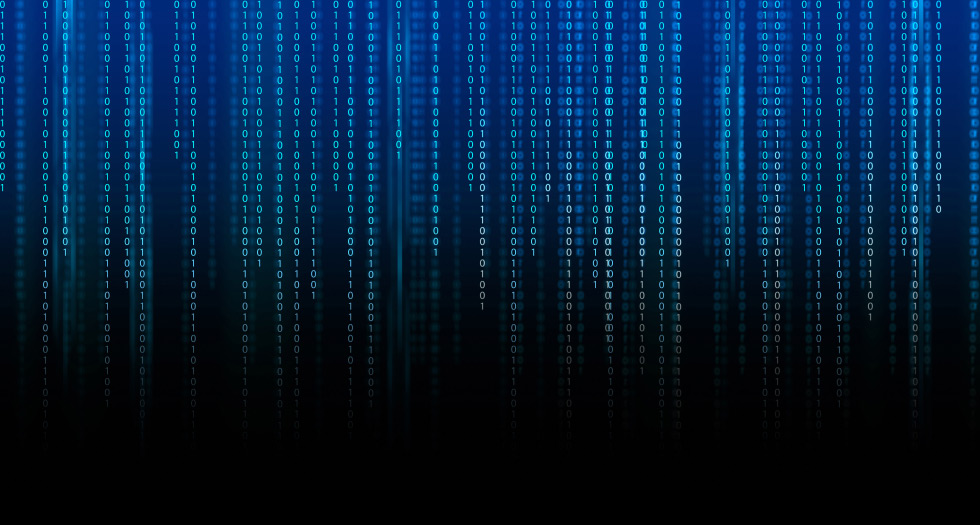
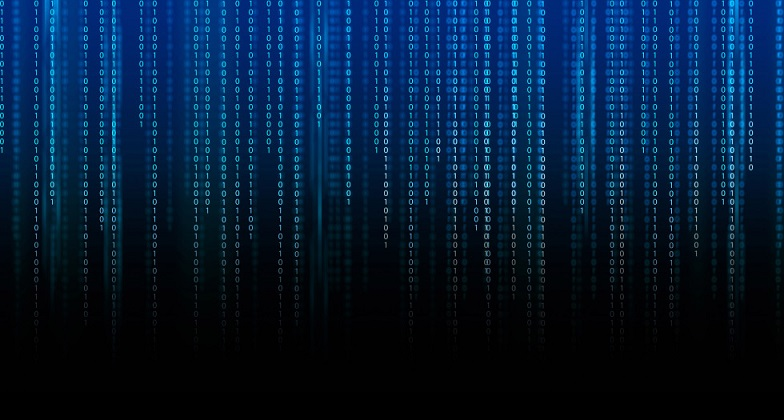
comprees images

diff --git a/index.html b/index.html
@@ -49,7 +49,7 @@
 
 	   @media(max-width: 768px) {
 	.about-image{
-		height: 300px;
+		height:180px;;
 	}}
 	</style>
 </head>
@@ -68,7 +68,7 @@
 					<span class="icon-bar"></span>
 					<span class="icon-bar"></span>
 				</button>
-				<a class="navbar-brand" href="#"><img src="img/logo.png" data-active-url="img/logo-active.png" alt=""></a>
+				<a class="navbar-brand" href=""><img src="img/logo.png" data-active-url="img/logo-active.png" alt=""></a>
 			</div>
 			<!-- Collect the nav links, forms, and other content for toggling -->
 			<div class="collapse navbar-collapse" id="bs-example-navbar-collapse-1">
@@ -78,7 +78,7 @@
 					<li><a target="_blank" href="#projects">Projects</a></li>
 					<li><a target="_blank" href="#pricing">Work Experience</a></li>
 					<li><a target="_blank" href="#contact">Contact Me</a></li>
-					<li><a target="_blank" href="#" data-toggle="modal" data-target="#modal1" class="btn btn-blue">My Resume</a></li>
+					<li><a target="_blank" href="https://drive.google.com/open?id=1KpTv5MctIKaDWo3HDxQWPVL_Ql6tzLK1AeJ4dQUSF7I"  class="btn btn-blue">My Resume</a></li>
 				</ul>
 			</div>
 			<!-- /.navbar-collapse -->
@@ -117,8 +117,8 @@
 					</div><br>
 					<div class="row">
 						<div class="col-md-12 text-center">
-							<h3 class="light white"  style="color:white;font-size:25px;">     Hi I'm Arpit Garg</h3>
-							<h1 class="white typed1"  style="color:#00a8ff;top:-20px;">                 I love developing Websites</h1>
+							<h3 class="light white"  style="color:white;font-size:25px;">Hi I'm Arpit Garg</h3>
+							<h1 class="white typed1"  style="color:#00a8ff;top:-20px;">I love developing Websites</h1>
 							<span class="typed-cursor1"  style="color:#00a8ff;top:-40px;">|</span>
 						</div>
 						
@@ -248,12 +248,12 @@
 		    <!-- About 1 -->
 			<div class="row color-bg">
 				<div class="col-md-6 nopadding features-intro-img">
-					<div class="about-image" style="background-image:url(img/team/port.png);background-size: contain; background-repeat: no-repeat;"></div><!-- about image 1 -->
+					<div class="about-image" style="background-image:url(img/team/port.png);background-size: contain;border:5px solid black; background-repeat: no-repeat;"></div><!-- about image 1 -->
 				</div>
 				<div class="col-md-6 about-text">
 					<h6>Online Portfolio</h6><!-- headline-->
-					<p>Its an online portfoli website.it contain all my personal and Professional details. it also include all my project along with their links on git hub.
-						its a responsive website.<br>
+					<p>Its an online portfoli website.It contain all my personal and Professional details. It also include all my project along with their links on git hub.
+						Its a responsive website.<br>
 						Technologies Used: HTML  CSS   BOOTSTRAP </p><br><!-- About Text 1 -->
 					<a href="https://www.github.com/arpitgarg32/porfolio/" class="weight-outline-btn">PROJECT LINK</a><!-- PROJECT LINK button  -->
 				</div>
@@ -262,18 +262,18 @@
 			<div class="row">
 				<div class="col-md-6 about-text">
 					<h6>FARESHARE</h6><!-- Headline -->
-					<p>fareshare is an online portal aims at providing a platform to the users to share thier ride with the people going to same destination.our portal allow the user to talk to each other with help of 
+					<p>fareshare is an online portal aims at providing a platform to the users to share thier ride with the people going to same destination.Our portal allow the user to communicate  to each other with help of 
 						chat box where they exchange their info.<br>Technologies Used: HTML  CSS   BOOTSTRAP   PHP </p><br><!-- About Text 2 -->
 					<a href="https://www.github.com/arpitgarg32/fareshare/" class="weight-outline-btn">PROJECT LINK</a>	<!-- PROJECT LINK button  -->
 				</div>
 				<div class="col-md-6 nopadding features-intro-img">
-					<div class="about-image" style="background-image:url('img/team/fare.png');background-size:cover; background-repeat: no-repeat;"></div><!-- about image 2 -->
+					<div class="about-image" style="background-image:url('img/team/fare.png');border:5px solid black;background-size:contain; background-repeat: no-repeat;"></div><!-- about image 2 -->
 				</div>
 			</div>
 			<!-- About 3 -->
 			<div class="row color-bg">
 				<div class="col-md-6 nopadding features-intro-img">
-					<div class="about-image" style="background-image:url(img/team/resi.png);background-size: contain; background-repeat: no-repeat;"></div><!-- about image 3 -->
+					<div class="about-image" style="background-image:url(img/team/resi.png);background-size: contain;border:5px solid black; background-repeat: no-repeat;"></div><!-- about image 3 -->
 				</div>
 				<div class="col-md-6 about-text">
 					<h6>RESIOWL</h6><!-- Headline-->
@@ -286,7 +286,7 @@
 		</div>
 	<div class="parallax3" >
 		<div class="row title text-center"><br><br>
-				<h2 class="margin-top white h">Work Experiences</h2>
+				<h2 class="margin-top white h">Work Experience</h2>
 		</div>
 	</div>
 	<section id="pricing" class="section">

diff --git a/css/style.css b/css/style.css
@@ -432,7 +432,7 @@ box-shadow: 0 16px 24px 2px rgba(0,0,0,.14), 0 6px 30px 5px rgba(0,0,0,.12), 0 8
     }
     .parallax4 {
     
-    background-image: url('../img/16.jpg');
+    background-image: url('../img/aa.jpg');
     }
 	.parallax5{
     min-height: 800px; 
